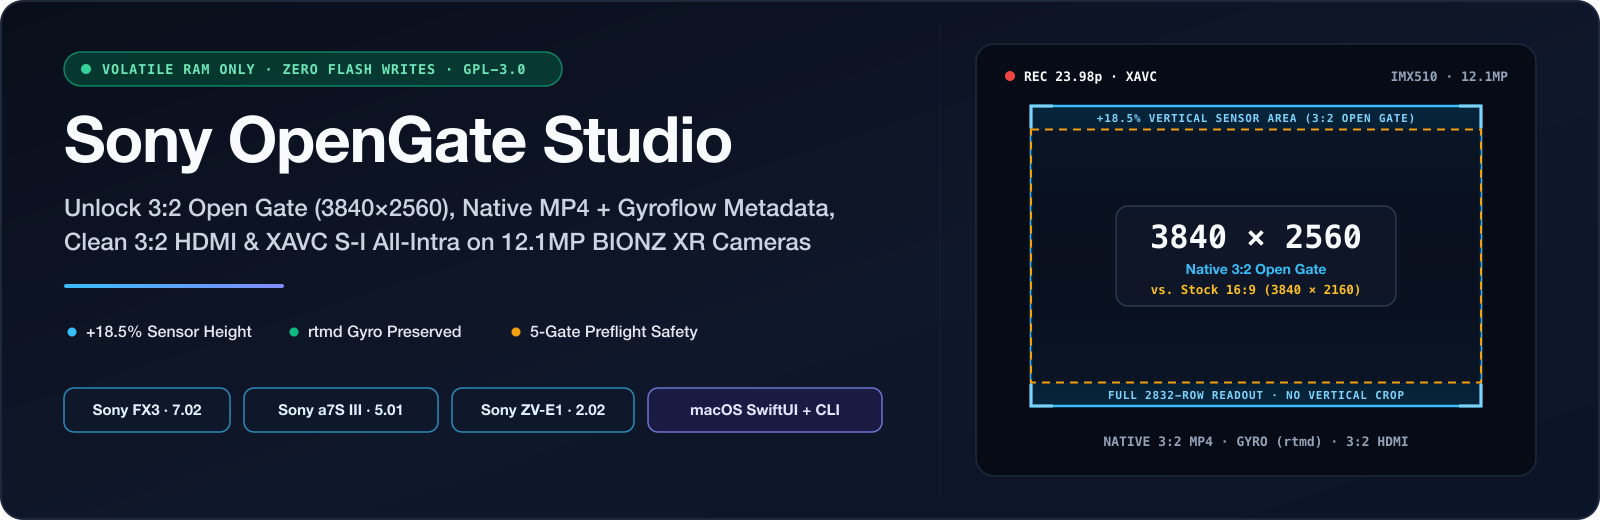
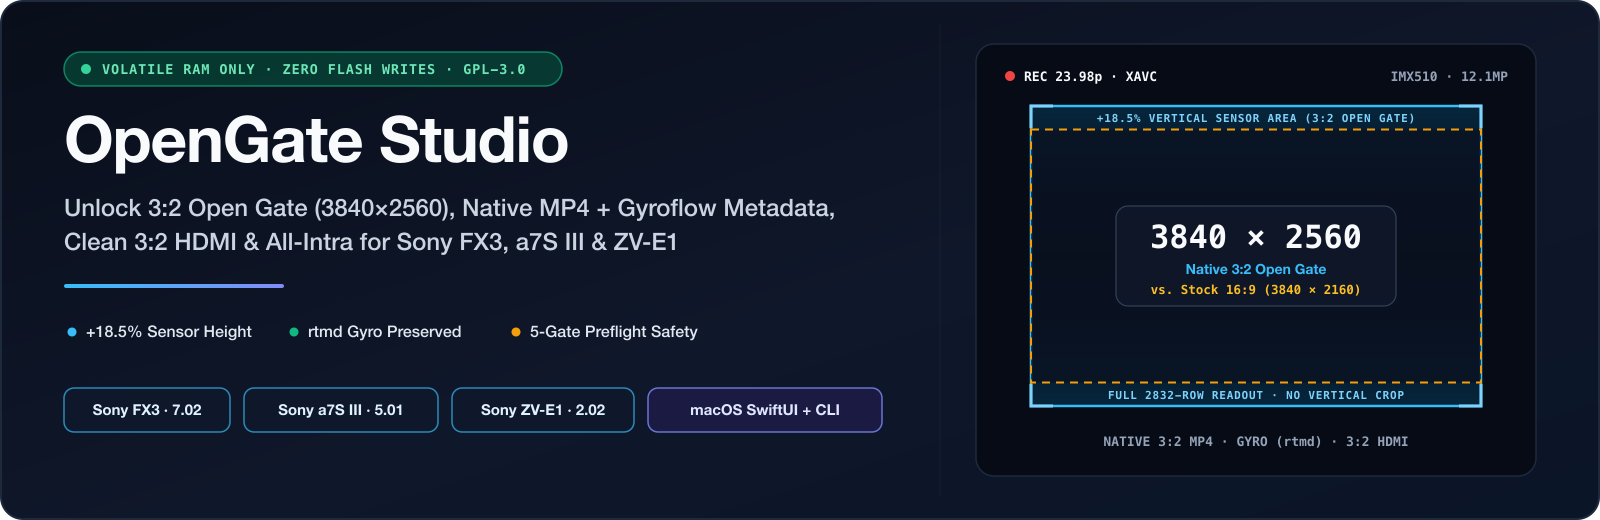
chore: rebrand to OpenGate Studio (opengate-studio) and scrub local paths

Changed region(s): [[0.0312, 0.2154, 0.4688, 0.3385], [0.1562, 0.4308, 0.5, 0.4923]]

diff --git a/macos/OpenGateStudio/Sources/OpenGateStudioCore/StudioBridge.swift b/macos/OpenGateStudio/Sources/OpenGateStudioCore/StudioBridge.swift
@@ -53,7 +53,7 @@ public enum StudioBridgeError: LocalizedError, Sendable {
     public var errorDescription: String? {
         switch self {
         case .repoRootNotFound(let searched):
-            return "Could not locate sony-opengate-studio repository root (expected cli/studio_cli.py and kits/). Searched: \(searched.joined(separator: ", "))"
+            return "Could not locate opengate-studio repository root (expected cli/studio_cli.py and kits/). Searched: \(searched.joined(separator: ", "))"
         case .processLaunchFailed(let detail):
             return "Failed to launch python3 process: \(detail)"
         case .cliFailed(let exitCode, let message, _):

diff --git a/src/common/readcheck.c b/src/common/readcheck.c
@@ -1,6 +1,6 @@
 /*
- * Sony OpenGate Studio — Volatile RAM Read/Write Helper (readcheck.c)
- * Copyright (C) 2026 ArcaneLantern & Sony OpenGate Studio Contributors
+ * OpenGate Studio — Volatile RAM Read/Write Helper (readcheck.c)
+ * Copyright (C) 2026 ArcaneLantern & OpenGate Studio Contributors
  *
  * This program is free software: you can redistribute it and/or modify
  * it under the terms of the GNU General Public License as published by

diff --git a/transport/camera_tests/CT1_usb_first_contact/ct1_common.py b/transport/camera_tests/CT1_usb_first_contact/ct1_common.py
@@ -22,7 +22,7 @@ from pathlib import Path
 
 HERE = Path(__file__).resolve().parent
 MAP_ROOT = HERE.parent.parent                 # .../transport
-REPO = MAP_ROOT.parent                        # .../sony-opengate-studio
+REPO = MAP_ROOT.parent                        # .../opengate-studio
 CAMERA_RE = MAP_ROOT / "third_party"
 PMCA_ROOT = CAMERA_RE / "sony-pmca-re"
 PMCA_COMMIT = "a82f5baaa8e9c3d9f28f94699e860fb2e48cc8e0"

diff --git a/cli/studio_step_run.py b/cli/studio_step_run.py
@@ -1,6 +1,6 @@
 #!/usr/bin/env python3
 # SPDX-License-Identifier: GPL-3.0-or-later
-"""Multi-body CT6 volatile RAM step runner for Sony OpenGate Studio (zve1_202, a7s3_501, fx3_702)."""
+"""Multi-body CT6 volatile RAM step runner for OpenGate Studio (zve1_202, a7s3_501, fx3_702)."""
 from __future__ import annotations
 
 import argparse

diff --git a/cli/studio_live_apply.py b/cli/studio_live_apply.py
@@ -1,6 +1,6 @@
 #!/usr/bin/env python3
 # SPDX-License-Identifier: GPL-3.0-or-later
-"""Interactive live USB orchestrator for Sony OpenGate Studio (preflight, dump, apply, putback)."""
+"""Interactive live USB orchestrator for OpenGate Studio (preflight, dump, apply, putback)."""
 from __future__ import annotations
 
 import argparse

diff --git a/cli/studio_cli.py b/cli/studio_cli.py
@@ -1,5 +1,5 @@
 #!/usr/bin/env python3
-"""Sony OpenGate Studio CLI: multi-body pin check, 5-gate mock preflight, apply/putback & clip check."""
+"""OpenGate Studio CLI: multi-body pin check, 5-gate mock preflight, apply/putback & clip check."""
 from __future__ import annotations
 
 import argparse

diff --git a/scripts/verify_clean_room.py b/scripts/verify_clean_room.py
@@ -1,5 +1,5 @@
 #!/usr/bin/env python3
-"""Clean-room, toolchain, SHA-256 pin, and ELF symbol verifier for sony-opengate-studio."""
+"""Clean-room, toolchain, SHA-256 pin, and ELF symbol verifier for opengate-studio."""
 from __future__ import annotations
 
 import argparse

diff --git a/tests/test_studio_suite.py b/tests/test_studio_suite.py
@@ -1,5 +1,5 @@
 #!/usr/bin/env python3
-"""Unit and integration test suite for sony-opengate-studio."""
+"""Unit and integration test suite for opengate-studio."""
 from __future__ import annotations
 
 import json

diff --git a/README.md b/README.md
@@ -1,16 +1,16 @@
 <div align="center">
 
-<a href="https://github.com/jeromykovatana/sony-opengate-studio">
-  <img src="assets/hero-banner.png" alt="Sony OpenGate Studio — 3:2 Open Gate 3840x2560 for Sony FX3, a7S III, and ZV-E1" width="100%">
+<a href="https://github.com/jeromykovatana/opengate-studio">
+  <img src="assets/hero-banner.png" alt="OpenGate Studio — 3:2 Open Gate 3840x2560 for Sony FX3, a7S III, and ZV-E1" width="100%">
 </a>
 
-<h1>Sony OpenGate Studio</h1>
+<h1>OpenGate Studio</h1>
 
-<p><strong>Unlock 3:2 Open Gate (3840×2560), native 3:2 MP4 + Gyroflow telemetry, clean 3:2 HDMI, and XAVC S-I All-Intra on Sony FX3, a7S III, and ZV-E1 — 100% in volatile RAM.</strong></p>
+<p><strong>Unlock 3:2 Open Gate (3840×2560), native 3:2 MP4 + Gyroflow telemetry, clean 3:2 HDMI, and XAVC S-I All-Intra for Sony FX3, a7S III, and ZV-E1 — 100% in volatile RAM.</strong></p>
 
 <p>
-  <a href="https://github.com/jeromykovatana/sony-opengate-studio/releases"><img src="https://img.shields.io/github/v/release/jeromykovatana/sony-opengate-studio?include_prereleases&label=release&color=0ea5e9" alt="Latest Release"></a>
-  <a href="https://github.com/jeromykovatana/sony-opengate-studio/actions/workflows/ci.yml"><img src="https://github.com/jeromykovatana/sony-opengate-studio/actions/workflows/ci.yml/badge.svg" alt="CI Status"></a>
+  <a href="https://github.com/jeromykovatana/opengate-studio/releases"><img src="https://img.shields.io/github/v/release/jeromykovatana/opengate-studio?include_prereleases&label=release&color=0ea5e9" alt="Latest Release"></a>
+  <a href="https://github.com/jeromykovatana/opengate-studio/actions/workflows/ci.yml"><img src="https://github.com/jeromykovatana/opengate-studio/actions/workflows/ci.yml/badge.svg" alt="CI Status"></a>
   <img src="https://img.shields.io/badge/cameras-FX3%20%7C%20a7S%20III%20%7C%20ZV--E1-f59e0b" alt="Supported Cameras">
   <img src="https://img.shields.io/badge/writes-Volatile%20RAM%20Only-10b981" alt="Volatile RAM Only">
   <img src="https://img.shields.io/badge/platform-macOS%2014%2B%20%7C%20Python%203-6366f1" alt="Platform">
@@ -18,8 +18,8 @@
 </p>
 
 <p>
-  <a href="https://github.com/jeromykovatana/sony-opengate-studio/releases"><strong>Download macOS App</strong></a> ·
-  <a href="#why-sony-opengate-studio">Why Open Gate</a> ·
+  <a href="https://github.com/jeromykovatana/opengate-studio/releases"><strong>Download macOS App</strong></a> ·
+  <a href="#why-opengate-studio">Why Open Gate</a> ·
   <a href="#supported-cameras--firmware-pins">Supported Cameras</a> ·
   <a href="#modular-feature-packs">Feature Packs</a> ·
   <a href="#5-gate-volatile-ram-safety-architecture">Safety Architecture</a> ·
@@ -41,9 +41,9 @@
 
 ---
 
-## Why Sony OpenGate Studio?
+## Why OpenGate Studio?
 
-Sony's 12.1MP full-frame sensor (`IMX510` + `CXD90057` BIONZ XR) physically reads out 3:2 rows, yet stock firmware crops the frame vertically to 16:9 (`3840×2160`) before encoding. **Sony OpenGate Studio** unlocks the full **3:2 (`3840×2560`)** sensor height—plus native 3:2 MP4 metadata, Gyroflow/Catalyst telemetry preservation, clean 3:2 HDMI, and All-Intra/high-bitrate packs—inside a guided macOS SwiftUI utility and clean-room Python CLI.
+Sony's 12.1MP full-frame sensor (`IMX510` + `CXD90057` BIONZ XR) physically reads out 3:2 rows, yet stock firmware crops the frame vertically to 16:9 (`3840×2160`) before encoding. **OpenGate Studio** unlocks the full **3:2 (`3840×2560`)** sensor height—plus native 3:2 MP4 metadata, Gyroflow/Catalyst telemetry preservation, clean 3:2 HDMI, and All-Intra/high-bitrate packs—inside a guided macOS SwiftUI utility and clean-room Python CLI.
 
 <div align="center">
   <img src="assets/open-gate-framing.png" alt="3:2 Open Gate 3840x2560 vs Stock 16:9 3840x2160 Sensor Geometry" width="100%">
@@ -51,7 +51,7 @@ Sony's 12.1MP full-frame sensor (`IMX510` + `CXD90057` BIONZ XR) physically read
 
 ### How It Compares
 
-| Capability | Stock Sony Firmware | Basic Open-Gate Script | **Sony OpenGate Studio** |
+| Capability | Stock Sony Firmware | Basic Open-Gate Script | **OpenGate Studio** |
 |---|---|---|---|
 | **3:2 Full Sensor (`3840×2560` @ `23.98p`)** | ❌ Cropped to `3840×2160` (`16:9`) | ✅ Sensor + base Long-GOP | ✅ Modular `core_open_gate` across 3 bodies |
 | **Native 3:2 MP4 Headers (`tkhd`/`stsd`/`VPRF`)** | ❌ `16:9` only | ⚠ Often needs `ffmpeg` re-mux | ✅ Native `3:2` directly out of camera (`mp4_3x2`) |
@@ -77,7 +77,7 @@ All 62 `.so` helper binaries across `kits/` are compiled reproducibly with `zigl
 > [!NOTE]
 > - **Exact firmware required:** Only `ZV-E1 2.02`, `a7S III 5.01`, and `FX3 7.02` (`ILME-FX3`, **not** `ILME-FX3A`) are supported. Preflight rejects any mismatched `DeviceInfo.xml` or memory identity page before touching RAM.
 > - **Sony a7 IV Clip Support:** The built-in Clip Inspector (`cli/bionz_clip_check.py`) also validates `3840×2560` and `5760×3840` clips from `a7iv-open-gate-test`.
-> - **Help validate on hardware:** This project is in active **v0.1.x-alpha** testing. If you run it on hardware, please submit a [Field Test Report](https://github.com/jeromykovatana/sony-opengate-studio/issues/new?template=field-test-report.yml).
+> - **Help validate on hardware:** This project is in active **v0.1.x-alpha** testing. If you run it on hardware, please submit a [Field Test Report](https://github.com/jeromykovatana/opengate-studio/issues/new?template=field-test-report.yml).
 
 ---
 
@@ -101,12 +101,12 @@ Pick only the capabilities you want to stack in camera RAM. Each pack is checked
 
 ### Option A — macOS App (`OpenGate Studio.app` — Recommended)
 
-Requires **macOS 14+** and **Python 3.9+** (Apple Silicon `arm64` prebuilt bundle on [Releases](https://github.com/jeromykovatana/sony-opengate-studio/releases); Xcode CLT / `swift` optional if rebuilding from source). **No Homebrew `libusb` or Windows Zadig driver needed.**
+Requires **macOS 14+** and **Python 3.9+** (Apple Silicon `arm64` prebuilt bundle on [Releases](https://github.com/jeromykovatana/opengate-studio/releases); Xcode CLT / `swift` optional if rebuilding from source). **No Homebrew `libusb` or Windows Zadig driver needed.**
 
-1. **Download & Open:** Grab the latest `.zip` from **[GitHub Releases](https://github.com/jeromykovatana/sony-opengate-studio/releases)**, or clone and run the one-click setup:
+1. **Download & Open:** Grab the latest `.zip` from **[GitHub Releases](https://github.com/jeromykovatana/opengate-studio/releases)**, or clone and run the one-click setup:
    ```bash
-   git clone https://github.com/jeromykovatana/sony-opengate-studio.git
-   cd sony-opengate-studio
+   git clone https://github.com/jeromykovatana/opengate-studio.git
+   cd opengate-studio
    ./setup_and_open_mac.command
    ```
 2. **Explore Safely Offline First:** Leave **Offline Mock Camera = ON** to walk through all three tabs with zero USB contact:
@@ -246,7 +246,7 @@ No. Leave a normal formatted SD or CFexpress card in **Slot 1** only so the came
 - [BIONZ XR 12.1MP Offset Audit & MP4 3:2 Muxer](docs/OFFSET_AUDIT.md) — cross-body memory architecture & Ghidra muxer analysis
 - [Feature Unlock Ranking & Verified Designs](docs/FEATURE_UNLOCK_RANKING.md) — offline readiness audit & hardware exclusions
 - [ZV-E1 2.02 Recording & Gyro Test Protocol](docs/ZVE1_RECORDING_TEST.md) — structured framing & Gyroflow verification protocol
-- [Contributing Guide](CONTRIBUTING.md) · [Security & Safety Policy](SECURITY.md) · [GitHub Discussions](https://github.com/jeromykovatana/sony-opengate-studio/discussions)
+- [Contributing Guide](CONTRIBUTING.md) · [Security & Safety Policy](SECURITY.md) · [GitHub Discussions](https://github.com/jeromykovatana/opengate-studio/discussions)
 
 ---
 
@@ -256,7 +256,9 @@ No. Leave a normal formatted SD or CFexpress card in **Slot 1** only so the came
 - **Sony USB Service Protocol Tooling:** [ma1co/Sony-PMCA-RE](https://github.com/ma1co/Sony-PMCA-RE) (vendored MIT components in `transport/third_party/sony-pmca-re`)
 - **License:** GNU General Public License v3.0 or later (`GPL-3.0-or-later`) — see [LICENSE](LICENSE).
 
+<sub>*OpenGate Studio is an independent open-source project and is not affiliated with, endorsed by, or sponsored by Sony Group Corporation. Sony, Alpha, BIONZ XR, FX3, a7S III, ZV-E1, and XAVC are trademarks of their respective owners.*</sub>
+
 <div align="center">
   <br>
-  <sub>If Sony OpenGate Studio helps your filmmaking workflow, consider giving the repo a ⭐ so more Sony shooters can find it.</sub>
+  <sub>If OpenGate Studio helps your filmmaking workflow, consider giving the repo a ⭐ so more filmmakers can find it.</sub>
 </div>

diff --git a/SECURITY.md b/SECURITY.md
@@ -2,7 +2,7 @@
 
 ## Volatile RAM Boundary
 
-**Sony OpenGate Studio** is designed strictly for **volatile RAM modification only** (`persistent_writes: false`):
+**OpenGate Studio** is designed strictly for **volatile RAM modification only** (`persistent_writes: false`):
 
 - No patch writes to eMMC flash (`nflasha*`), bootloaders (`boot0`/`boot1`), or persistent settings (`BK4` / `BACKUP.BIN`).
 - Every write helper verifies 16-byte aligned stock guard windows before patching and checks for cross-pack byte collisions.

diff --git a/docs/OFFICE_CAMERA_TEST_GUIDE.md b/docs/OFFICE_CAMERA_TEST_GUIDE.md
@@ -16,7 +16,7 @@
 Double-click **`setup_and_open_mac.command`** (or run from Terminal):
 
 ```bash
-cd "/path/to/sony-opengate-studio"
+cd "/path/to/opengate-studio"
 chmod +x setup_and_open_mac.command macos/run_live_terminal.sh
 ./setup_and_open_mac.command
 ```

diff --git a/CONTRIBUTING.md b/CONTRIBUTING.md
@@ -1,6 +1,6 @@
-# Contributing to Sony OpenGate Studio
+# Contributing to OpenGate Studio
 
-Thank you for helping improve **Sony OpenGate Studio**!
+Thank you for helping improve **OpenGate Studio**!
 
 ## Hard Clean-Room & Safety Rules
 
